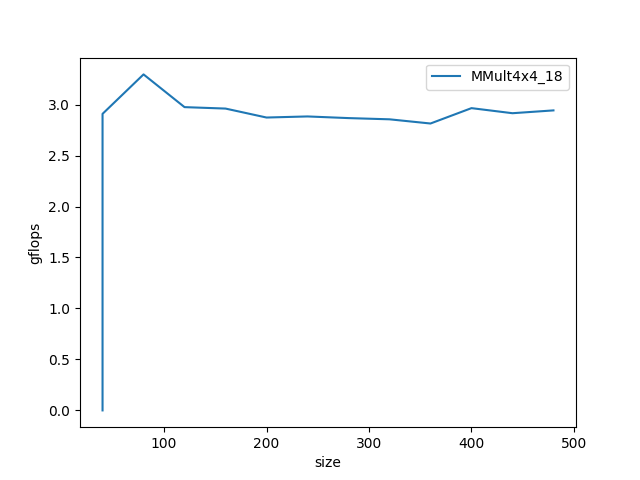
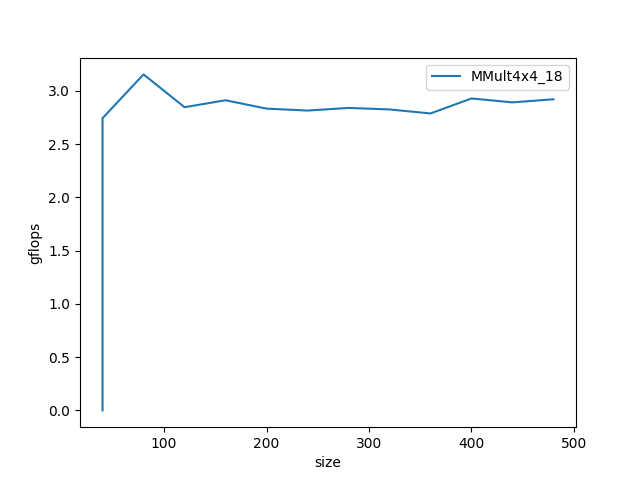
Init IN 2020/11/8

diff --git a/optimize_gemm/test_matrix_multiply.cpp b/optimize_gemm/test_matrix_multiply.cpp
@@ -3,7 +3,7 @@
 #include <string.h>
 #include <iostream>
 #include "MMult0.h"
-//#include "MMult1.h"
+// #include "MMult1.h"
 // #include "MMult2.h"
 // #include "MMult_1x4_3.h"
 // #include "MMult_1x4_4.h"
@@ -19,9 +19,9 @@
 // #include "MMult_4x4_10.h"
 // #include "MMult_4x4_11.h"
 // #include "MMult_4x4_12.h"
-// #include "MMult_4x4_13.h"
+#include "MMult_4x4_13.h"
 // #include "MMult_4x4_14.h"
-#include "MMult_4x4_18.h"
+// #include "MMult_4x4_18.h"
 
 #include "dclock.h"
 using namespace std;
@@ -119,7 +119,7 @@ int main(){
 
             clock_gettime(CLOCK_MONOTONIC_RAW, &start);
 
-            MY_MMult_4x4_18(m, n, k, a, lda, b, ldb, c, ldc);
+            MY_MMult_4x4_13(m, n, k, a, lda, b, ldb, c, ldc);
 
             clock_gettime(CLOCK_MONOTONIC_RAW, &end);
 

diff --git a/optimize_gemm/plot_gflops.py b/optimize_gemm/plot_gflops.py
@@ -5,7 +5,7 @@ def solve(filename):
     f = open(filename)
     sizes = [40]
     times = [0.0]
-    title = 'MMult4x4_18'
+    title = 'MMult4x4_13'
     while True:
         line = f.readline()
         if line:
@@ -24,5 +24,5 @@ if __name__ == '__main__':
     t, x, y = solve('now.txt')
     plt.plot(x, y, label=t)
     plt.legend()
-    plt.savefig('MMult4x4_18.png')
+    plt.savefig('MMult4x4_13.png')
     plt.show()

diff --git a/optimize_gemm/MMult0.h b/optimize_gemm/MMult0.h
@@ -7,8 +7,8 @@
 void MatrixMultiply(int m, int n, int k, float *a, int lda, float *b, int ldb, float *c, int ldc)
 {
     for(int i = 0; i < m; i++){
-        for (int j=0; j<n; j++ ){    
-            for (int p=0; p<k; p++ ){      
+        for (int p=0; p<k; p++ ){ 
+            for (int j=0; j<n; j++ ){    
                 C(i, j) = C(i, j) + A(i, p) * B(p, j);
             }
         }

diff --git a/optimize_gemm/MMult_4x4_18.h b/optimize_gemm/MMult_4x4_18.h
@@ -45,9 +45,9 @@ After reading 6.4, rk3399 L2 cache is large, mc = 1MB / 256 = 4096
 
 
 */
-#define GEMM_N (384)  // GEMM_R
-#define GEMM_M (4096)  // GEMM_P
-#define GEMM_K (256)  // GEMM_Q
+#define GEMM_N (240)  // GEMM_R
+#define GEMM_M (240)  // GEMM_P
+#define GEMM_K (240)  // GEMM_Q
 #define GEMM_UNROLL (4)
 #define KERNEL_4x4  kernel_4x4_v3
 

diff --git a/optimize_gemm/MMult_4x4_13.h b/optimize_gemm/MMult_4x4_13.h
@@ -2,8 +2,8 @@
 #include <stdio.h>
 
 /* Block sizes */
-#define mc 256
-#define kc 128 
+#define mc 128
+#define kc 128
 
 /* Create macros so that the matrices are stored in row-major order */
 
